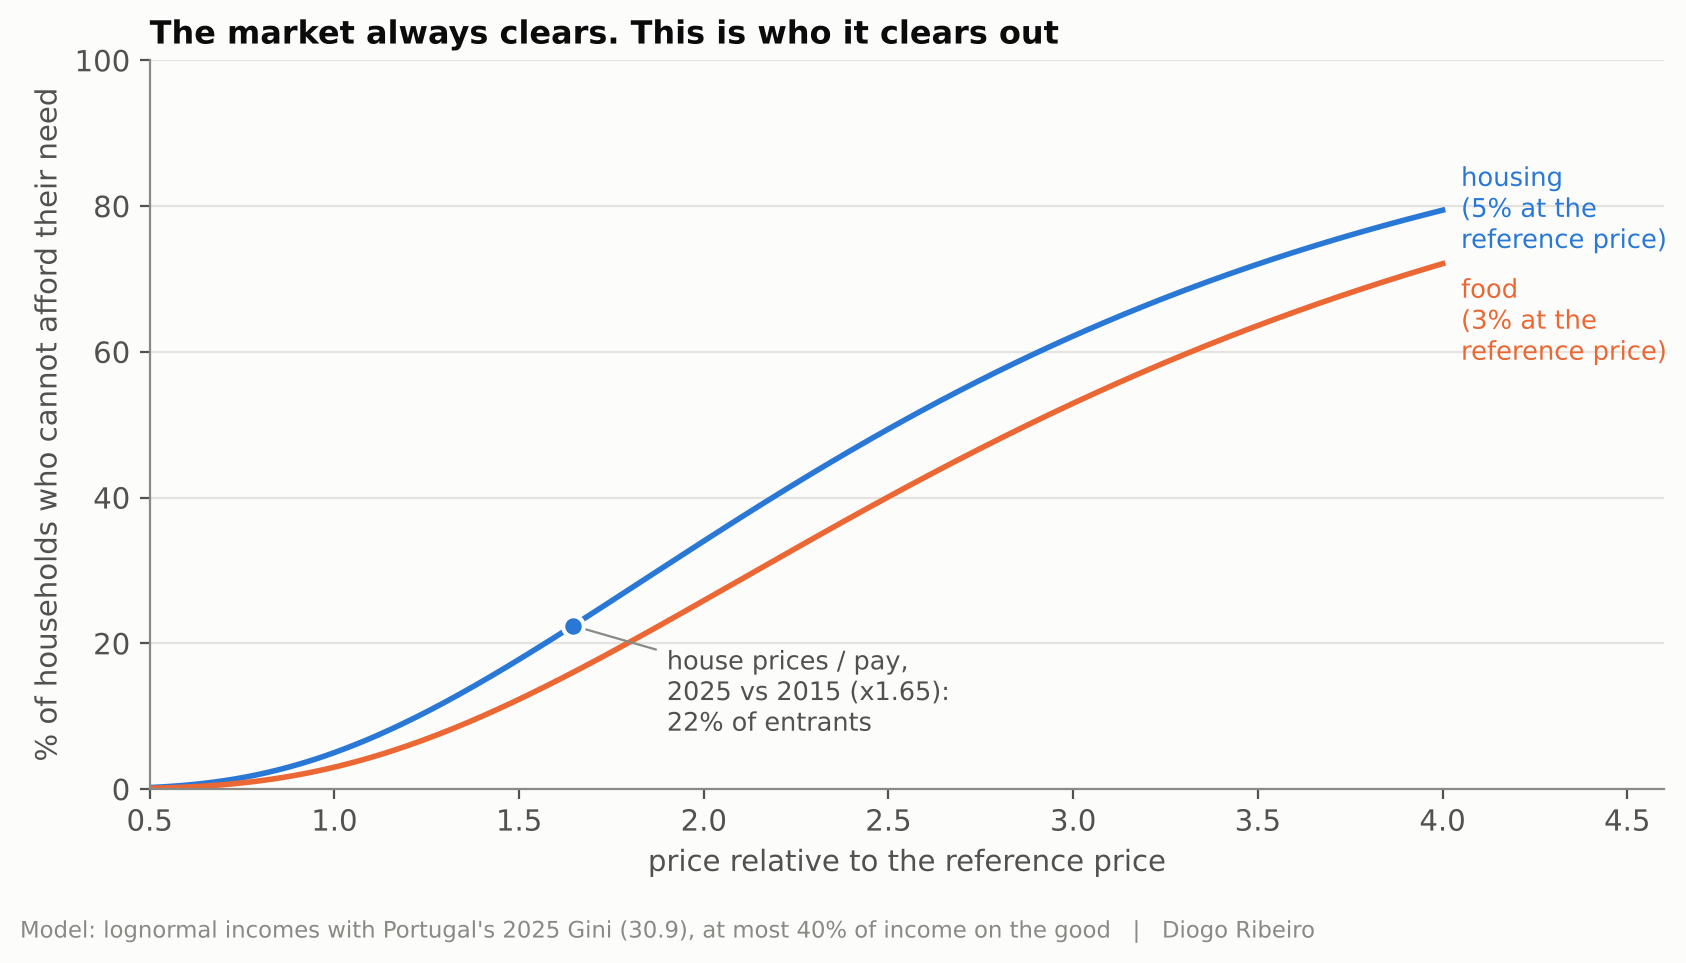
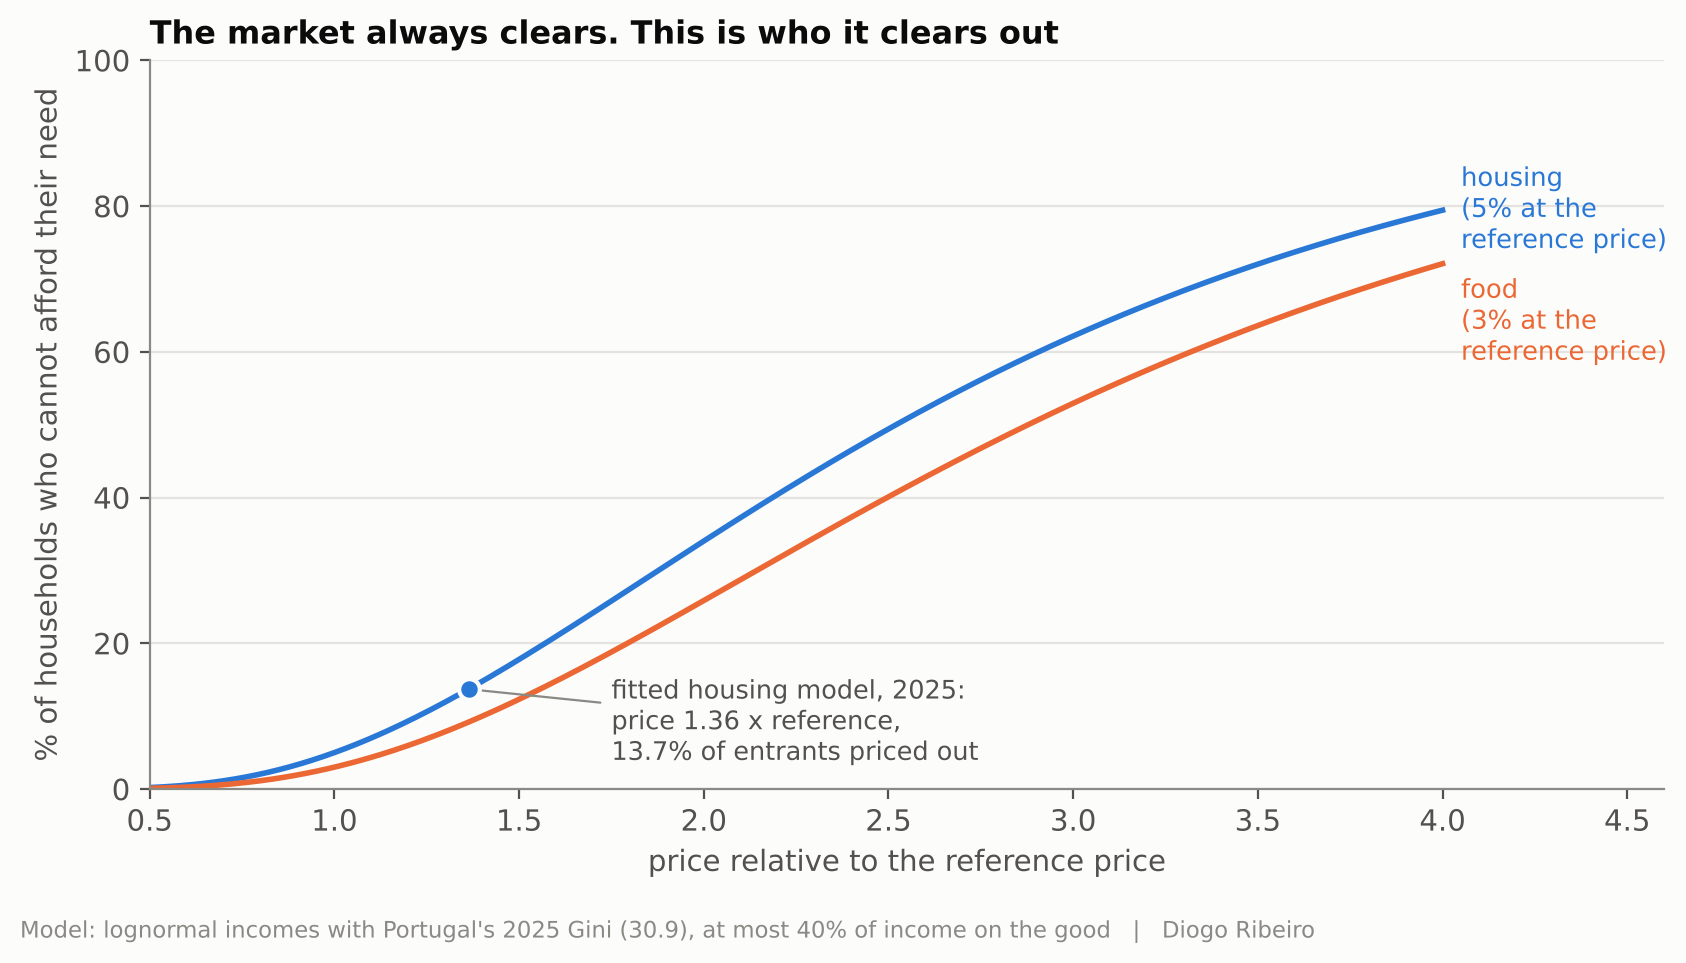
market-capacity-lock-in: tenure snapshot, figures in article order, README calibration note

Changed region(s): [[0.3393, 0.6854, 0.586, 0.81], [0.2776, 0.7165, 0.3084, 0.7477]]

diff --git a/market-capacity-lock-in/figures.py b/market-capacity-lock-in/figures.py
@@ -176,10 +176,12 @@ def fig3_exclusion() -> None:
     ax.plot(d.price_ratio, 100 * d.food_priced_out, color=C2)
     label_end(ax, 4.0, 100 * d.housing_priced_out.iloc[-1], "housing\n(5% at the\nreference price)", C1, dx=0.05)
     label_end(ax, 4.0, 100 * d.food_priced_out.iloc[-1], "food\n(3% at the\nreference price)", C2, dx=0.05, dy=-8)
-    r = 1.646
+    fh = pd.read_csv(RES / "housing_fitted.csv")
+    row = fh.iloc[int(np.argmin(np.abs(fh.year.to_numpy() - 2025)))]
+    r = float(row.price)
     y = 100 * float(np.interp(r, d.price_ratio, d.housing_priced_out))
     ax.scatter([r], [y], s=55, color=C1, edgecolor=SURFACE, linewidth=1.5, zorder=4)
-    ax.annotate(f"house prices / pay,\n2025 vs 2015 (x{r:.2f}):\n{y:.0f}% of entrants", (r, y), xytext=(1.9, 8), fontsize=9.2, color=INK2, arrowprops=dict(arrowstyle="-", color=MUTED, lw=0.8))
+    ax.annotate(f"fitted housing model, 2025:\nprice {r:.2f} x reference,\n{y:.1f}% of entrants priced out", (r, y), xytext=(1.75, 4), fontsize=9.2, color=INK2, arrowprops=dict(arrowstyle="-", color=MUTED, lw=0.8))
     ax.set_xlim(0.5, 4.6)
     ax.set_ylim(0, 100)
     ax.set_xlabel("price relative to the reference price")
@@ -306,7 +308,7 @@ def fig7_housing_model() -> None:
     fig.suptitle("Portugal's housing, 2008-2025, fitted with three parameters, and four other histories", x=0.01, ha="left", fontsize=13, fontweight="bold", color=INK, y=1.03)
     note(fig, "Data: Eurostat (nama_10_a10_e, prc_hpi_a, nama_10_a10). Model: capacity speeds from construction employment; household growth from lfst_hhnhtych")
     fig.tight_layout(rect=(0, 0.04, 1, 1))
-    save(fig, "fig7_housing_model.png")
+    save(fig, "fig8_housing_model.png")
 
 
 def fig8_exposure() -> None:
@@ -325,7 +327,7 @@ def fig8_exposure() -> None:
     ax.set_title("What anchored capacity buys: protection when borrowing fails")
     note(fig, "Model: food case; price clears the market during the disruption; Gini 30.9")
     fig.tight_layout(rect=(0, 0.04, 1, 1))
-    save(fig, "fig8_exposure.png")
+    save(fig, "fig7_exposure.png")
 
 
 def main() -> None:
@@ -335,8 +337,8 @@ def main() -> None:
     fig4_fold()
     fig5_erosion()
     fig6_wave()
-    fig7_housing_model()
     fig8_exposure()
+    fig7_housing_model()
 
 
 if __name__ == "__main__":

diff --git a/market-capacity-lock-in/evidence.py b/market-capacity-lock-in/evidence.py
@@ -144,7 +144,18 @@ def overburden() -> pd.DataFrame:
     ob = eurostat_json("eurostat_ilc_lvho07a_PT_2026-10-29.json")
     ob = ob[ob.rskpovth == "TOTAL"].pivot_table(index="time", columns="age", values="value")
     lp = eurostat_json("eurostat_ilc_lvps08_PT_2026-10-29.json").pivot_table(index="time", columns="age", values="value")
-    out = pd.DataFrame({"overburden_total": ob["TOTAL"], "overburden_25_29": ob["Y25-29"], "with_parents_25_34": lp["Y25-34"]})
+    ten = eurostat_json("eurostat_ilc_lvho02_PT_2026-10-29.json")
+    ten = ten[(ten.hhcomp == "TOTAL") & (ten.rskpovth == "TOTAL")].pivot_table(index="time", columns="tenure", values="value")
+    out = pd.DataFrame(
+        {
+            "overburden_total": ob["TOTAL"],
+            "overburden_25_29": ob["Y25-29"],
+            "with_parents_25_34": lp["Y25-34"],
+            "owner": ten["OWN"],
+            "owner_no_loan": ten["OWN_NL"],
+            "reduced_or_free_rent": ten["RENT_FR"],
+        }
+    )
     return out
 
 
@@ -249,7 +260,10 @@ def main() -> None:
     ob = ev["overburden"]
     for y in (2015, 2019, 2022, 2024, 2025):
         r = ob.loc[y]
-        say(f"  {y}: housing-cost overburden {r.overburden_total:.1f}% (25-29: {r.overburden_25_29:.1f}%); aged 25-34 living with parents {r.with_parents_25_34:.1f}%")
+        say(
+            f"  {y}: housing-cost overburden {r.overburden_total:.1f}% (25-29: {r.overburden_25_29:.1f}%); aged 25-34 living with parents {r.with_parents_25_34:.1f}%; "
+            f"population in owner-occupied homes {r.owner:.1f}% (no loan {r.owner_no_loan:.1f}%), reduced or free rent {r.reduced_or_free_rent:.1f}%"
+        )
     g = ev["gini"]
     say(f"\nGini (ilc_di12): {int(g.index.max())} {g.iloc[-1]:.1f}")
     hg = ev["household_growth"]

diff --git a/market-capacity-lock-in/README.md b/market-capacity-lock-in/README.md
@@ -34,8 +34,8 @@ python -m pytest -q tests
 - `fig4_fold`: steady states of anchored food capacity against the effort premium, open and capped borrowing
 - `fig5_erosion`: a slow rise in the effort premium, then a disruption to borrowed supply
 - `fig6_wave`: capacity after a retirement wave, by its speed and by how eroded the sector already was
-- `fig7_housing_model`: the housing fit and four counterfactual histories
-- `fig8_exposure`: priced-out share during a disruption, as a function of anchored capacity
+- `fig7_exposure`: priced-out share during a disruption, as a function of anchored capacity
+- `fig8_housing_model`: the housing fit and four counterfactual histories
 
 ## The model in one paragraph
 
@@ -46,8 +46,8 @@ need. Food demand also has a discretionary layer, so the aggregate price elastic
 small (no suppliers, buyers or people to learn from), falls as it grows and rises again at large scale. It
 also includes a premium *φ* for drawing people into physical work. Capacity grows at most 7% a year (scaled by
 *K/(K+K_g)*, since newcomers learn from incumbents) and shrinks at up to 9% a year when production loses money,
-plus 2.5% attrition. With these rates, the fastest net rebuild is about 3.7% a year and the fastest loss 11.5%,
-which matches Portuguese construction employment in 2014–2025 and 2008–2013. Borrowed supply is available at
+plus 2.5% attrition. With these rates, the fastest net rebuild of a full-sized sector is about 3.8% a year and the
+fastest loss 11.5%, against 3.7% and 11.2% measured on Portuguese construction employment in 2014–2025 and 2008–2013. Borrowed supply is available at
 the reference price up to a cap *M*.
 
 All model parameters are in `model.py` and `scenarios.py`. The Monte Carlo redraws the shape of the cost curve
@@ -63,7 +63,7 @@ and the speeds over wide ranges (2,000 draws) to check which conclusions survive
   `data/archived/SHA256SUMS`:
   - from `portugal-housing-generations` at commit `7883bad` (the project now lives in its own repository): INE
     indicators 0000076 and 0011725 (dwellings completed), 0013235 (dwellings licensed); Eurostat `prc_hpi_a`,
-    `sts_cobp_a`, `ilc_lvho07a`, `ilc_lvps08`, `lfst_hhnhtych`, `prc_hicp_aind` (rents);
+    `sts_cobp_a`, `ilc_lvho02`, `ilc_lvho07a`, `ilc_lvps08`, `lfst_hhnhtych`, `prc_hicp_aind` (rents);
   - from `portugal-labour-share-industries`: Eurostat `nama_10_a10`, `nama_10_a10_e`;
   - from `portugal-household-spending`: Eurostat `prc_hicp_aind`.
 
